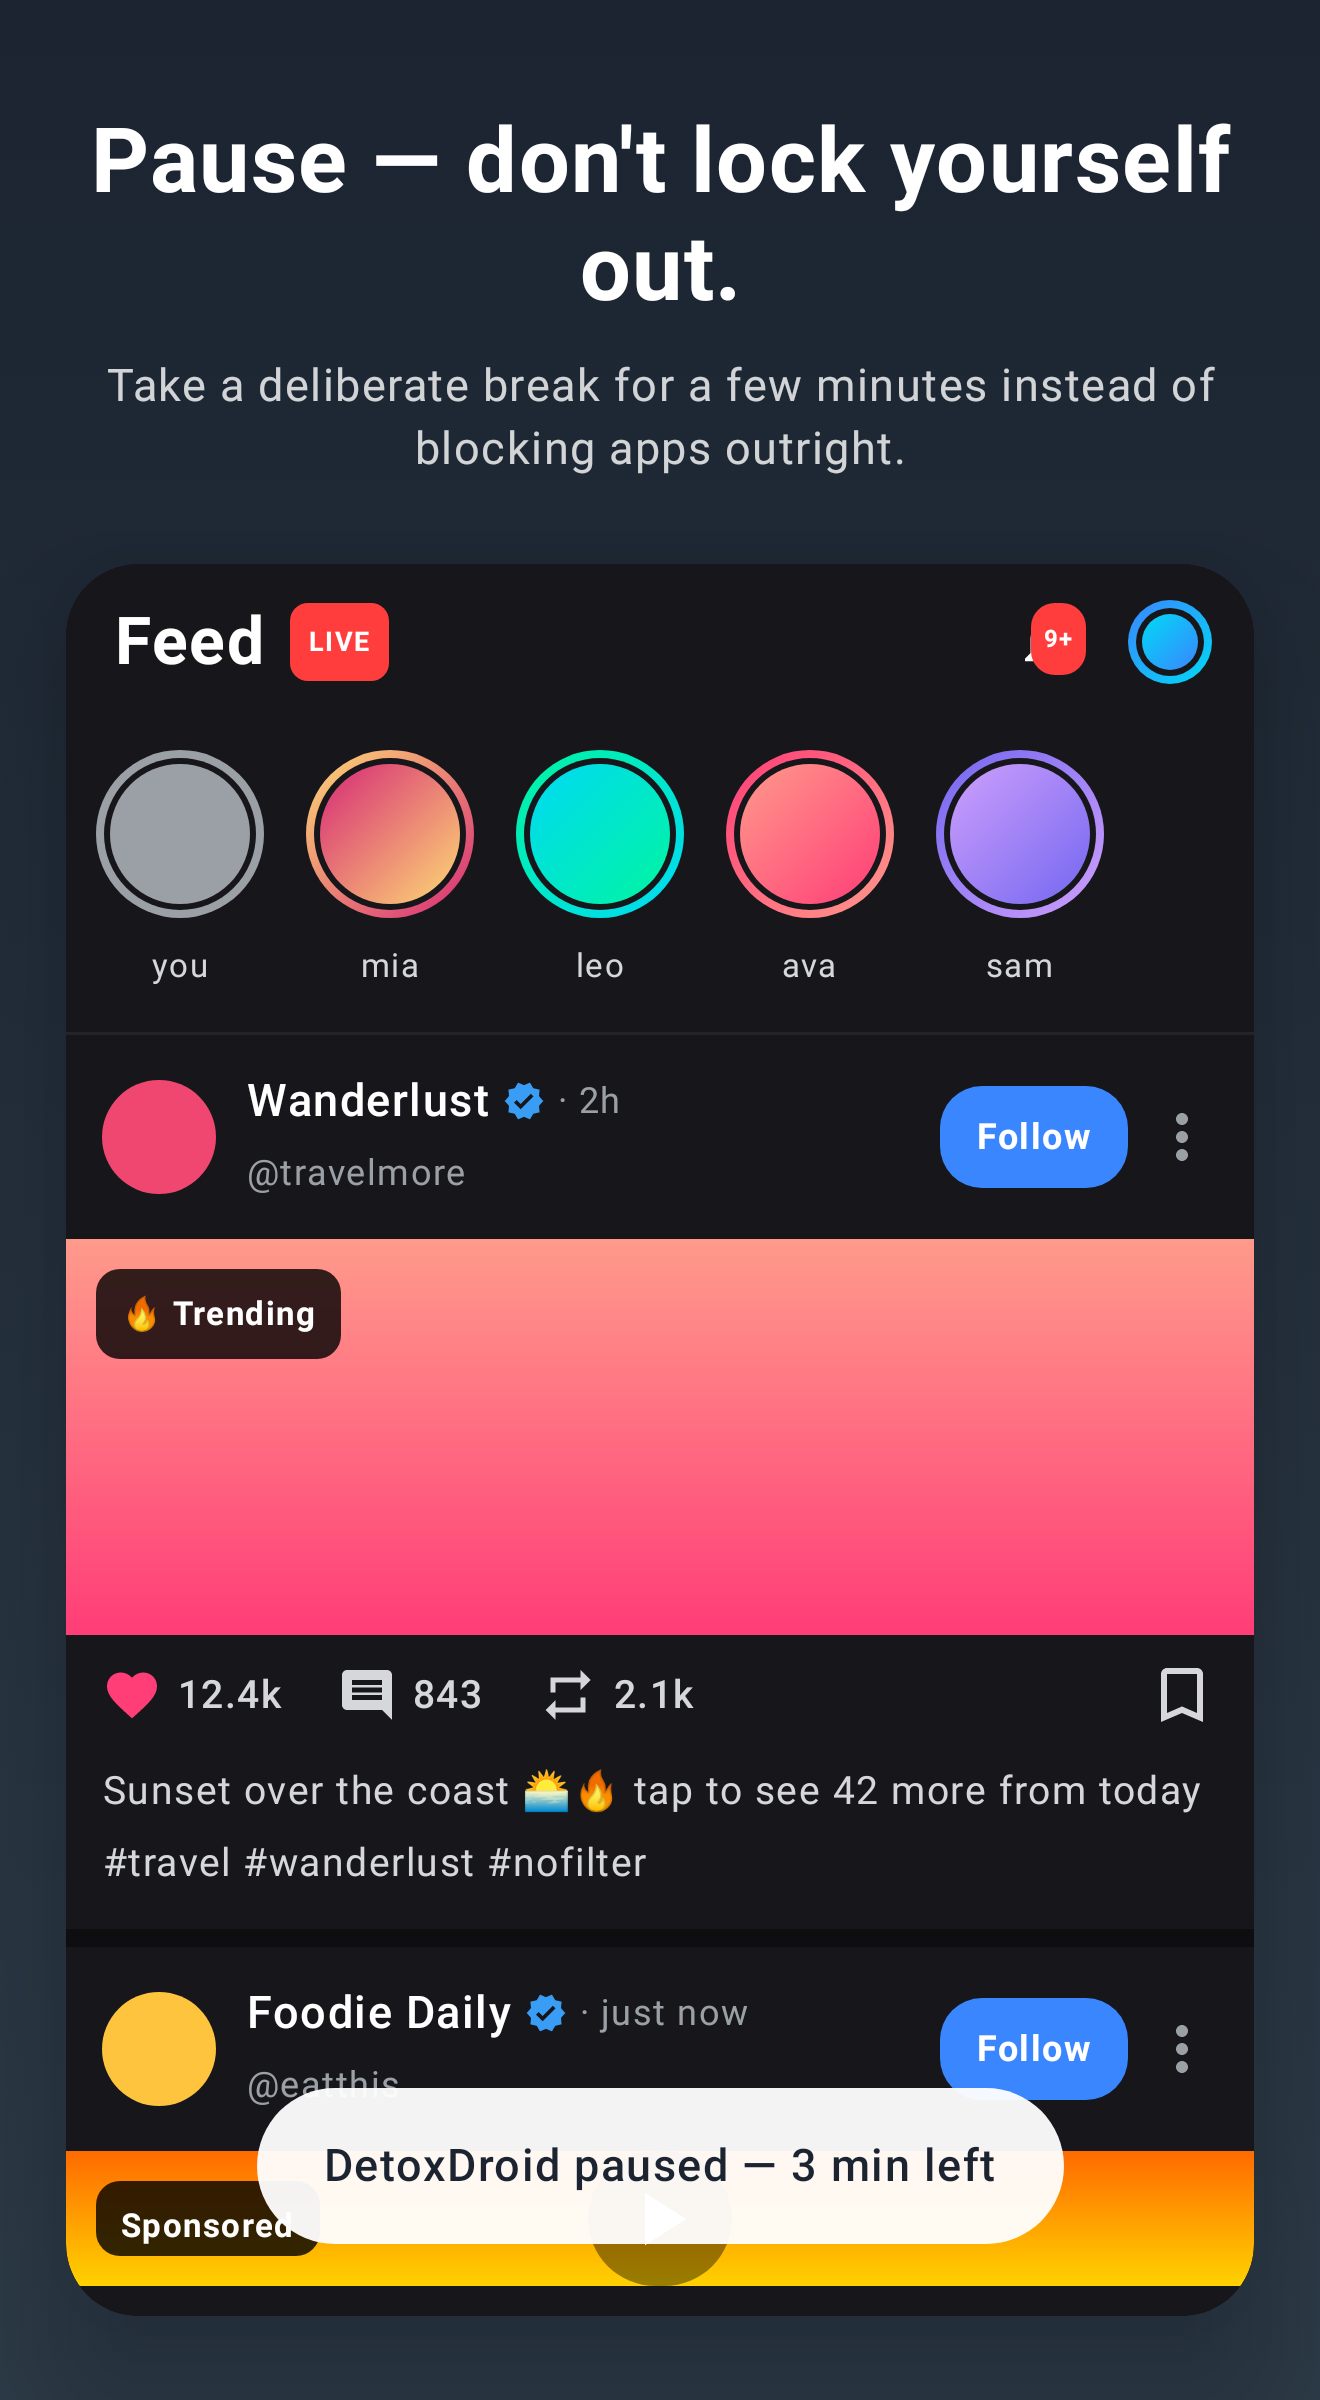
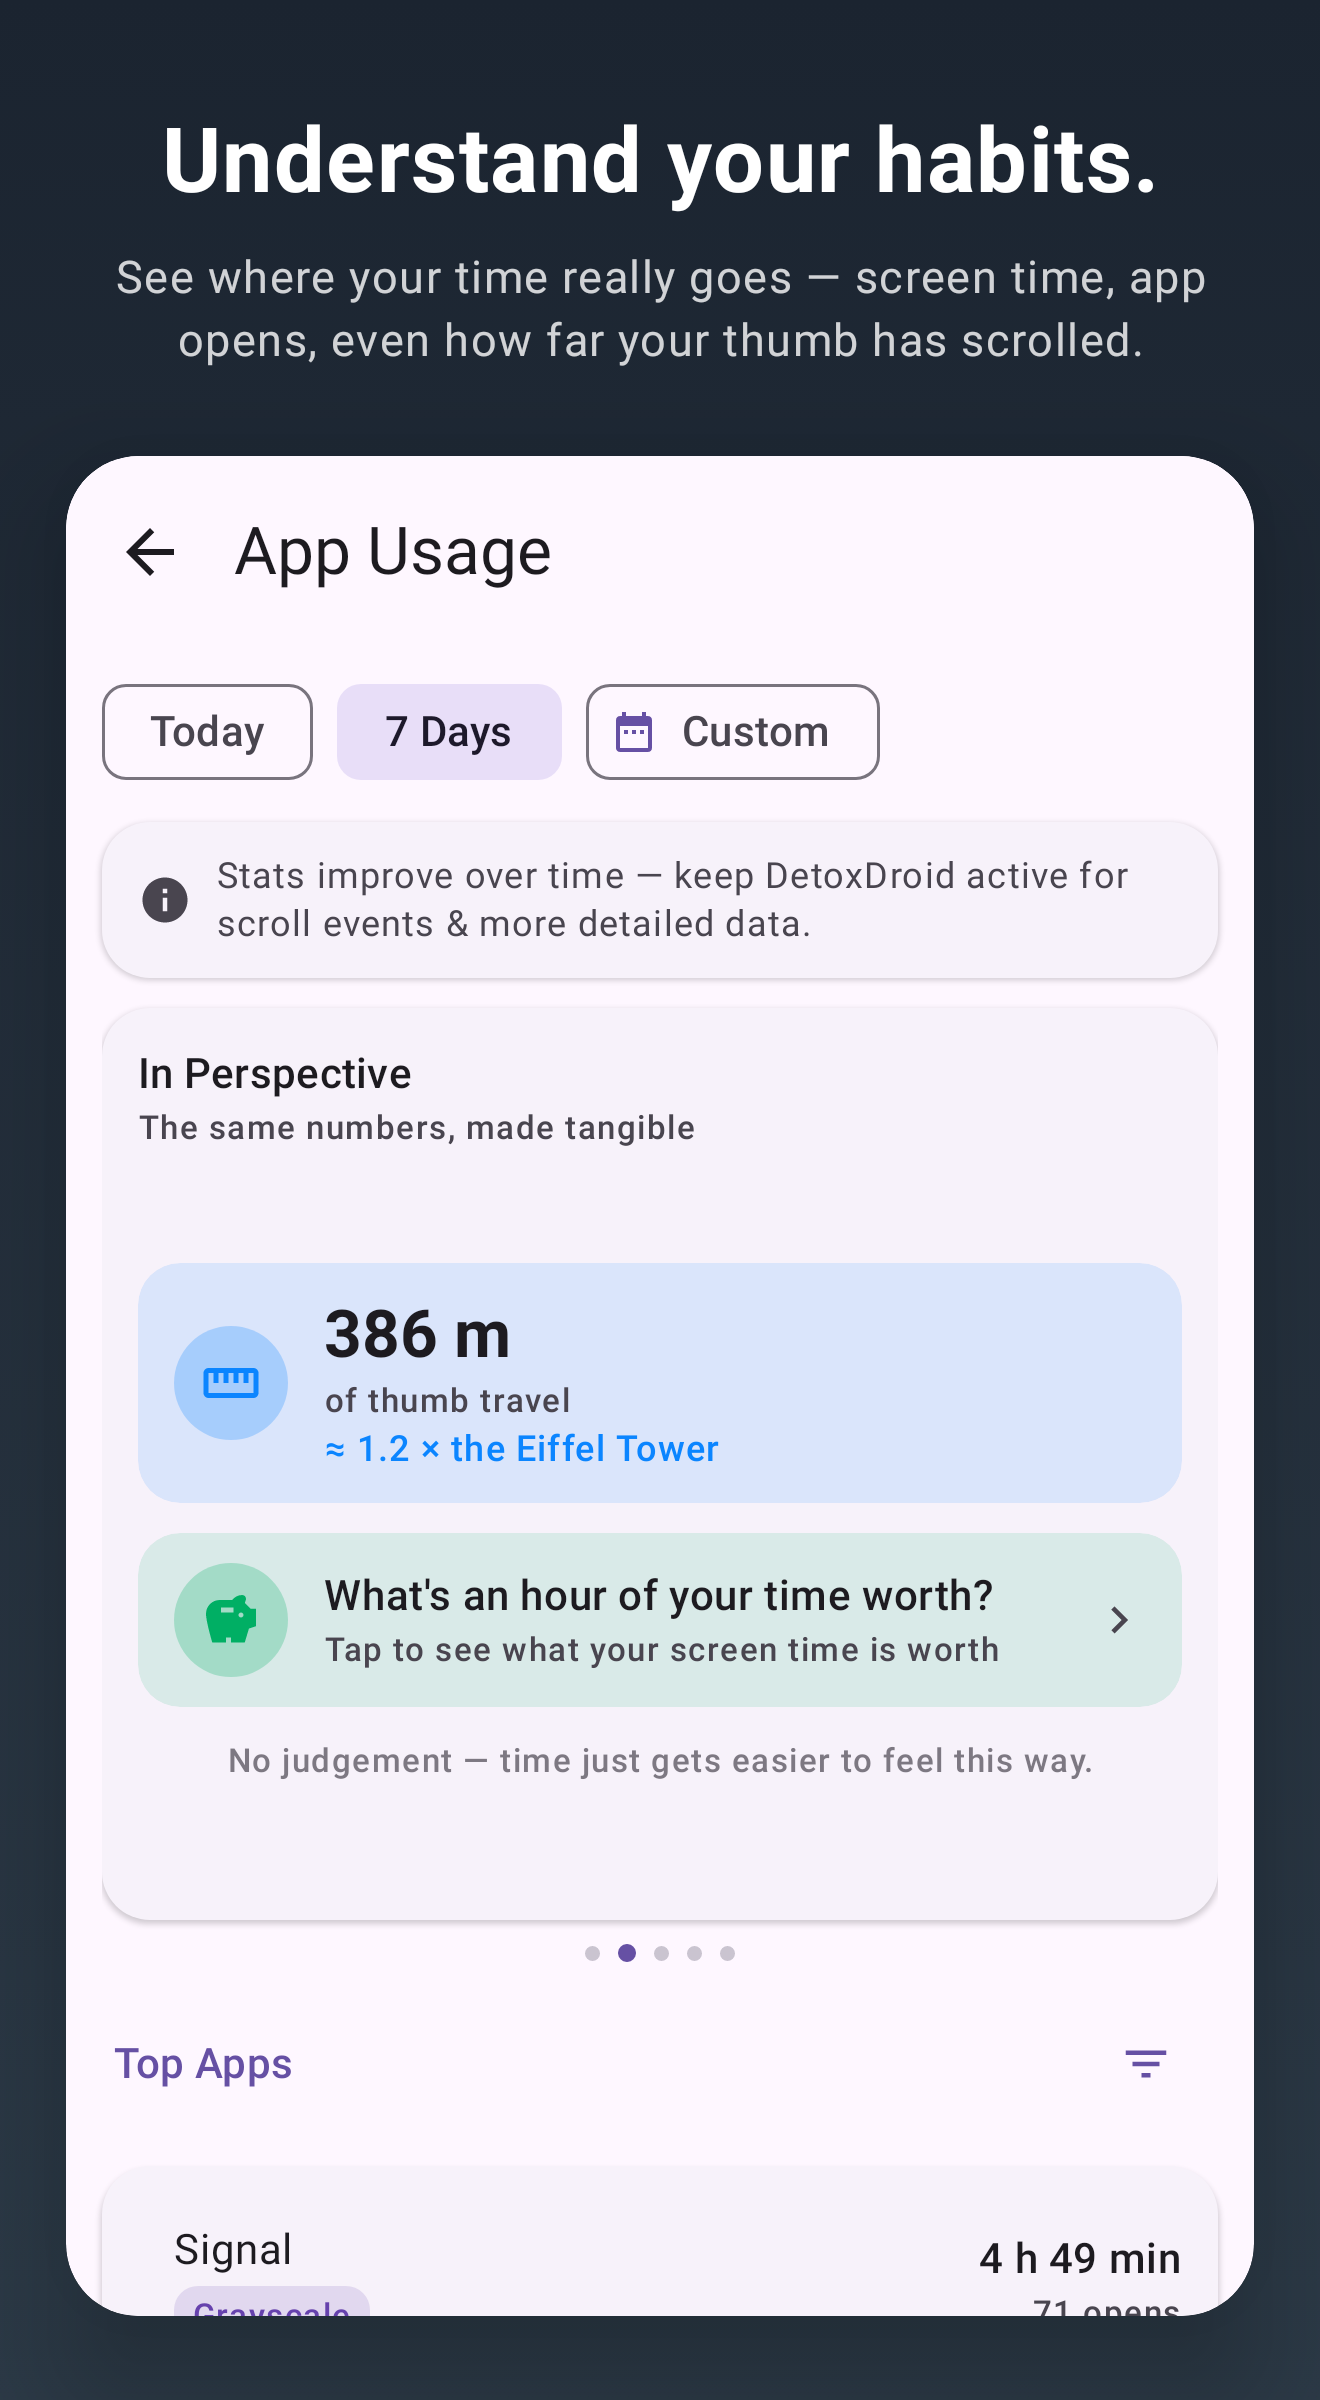
refactor: rework screenshots and update README.md accordingly

diff --git a/app/src/test/java/com/flx_apps/digitaldetox/screenshot/StoreScreenshotTest.kt b/app/src/test/java/com/flx_apps/digitaldetox/screenshot/StoreScreenshotTest.kt
@@ -5,14 +5,14 @@ import androidx.activity.compose.setContent
 import androidx.annotation.StringRes
 import androidx.compose.foundation.layout.Box
 import androidx.compose.foundation.layout.fillMaxSize
-import androidx.compose.foundation.layout.padding
 import androidx.compose.runtime.Composable
-import androidx.compose.ui.Alignment
 import androidx.compose.ui.Modifier
 import androidx.compose.ui.test.junit4.createAndroidComposeRule
+import androidx.compose.ui.test.onNodeWithTag
 import androidx.compose.ui.test.onNodeWithText
 import androidx.compose.ui.test.performClick
-import androidx.compose.ui.unit.dp
+import androidx.compose.ui.test.performTouchInput
+import androidx.compose.ui.test.swipeLeft
 import androidx.lifecycle.ViewModelProvider
 import com.flx_apps.digitaldetox.MainActivity
 import com.flx_apps.digitaldetox.R
@@ -22,6 +22,7 @@ import com.flx_apps.digitaldetox.ui.screens.feature.break_doom_scrolling.BreakDo
 import com.flx_apps.digitaldetox.ui.screens.nav_host.NavHostScreen
 import com.flx_apps.digitaldetox.ui.screens.nav_host.NavViewModel
 import com.flx_apps.digitaldetox.ui.screens.nav_host.NavigationRoutes
+import com.flx_apps.digitaldetox.ui.screens.usage_stats.TrendsCarouselTestTag
 import com.flx_apps.digitaldetox.ui.theme.DetoxDroidTheme
 import com.github.takahirom.roborazzi.captureRoboImage
 import dagger.hilt.android.testing.HiltAndroidRule
@@ -49,8 +50,8 @@ import javax.inject.Inject
  * Real app screens (home, usage-stats) are driven through the real [MainActivity]/[NavHostScreen]
  * — they cannot be instantiated standalone because `NavViewModel.navViewModel()` casts the local
  * activity to [MainActivity] and reimagined `hiltViewModel()` needs a nav-entry scope. The
- * grayscale / exceptions / doomscrolling / pause beats are static mock scenes (see [MockScenes]),
- * per product decision, since Roborazzi can only render DetoxDroid's own UI.
+ * grayscale / exceptions / doomscrolling / minimal-launcher beats are static mock scenes (see
+ * [MockScenes]), per product decision, since Roborazzi can only render DetoxDroid's own UI.
  *
  * Run with:
  *   ./gradlew :app:generateScreenshots
@@ -144,39 +145,33 @@ class StoreScreenshotTest {
         }
     }
 
-    // ── 5 · Pause, not lockout ───────────────────────────────────────────────
+    // ── 5 · Usage stats — In Perspective ─────────────────────────────────────
     @Test
-    fun screenshot_5_pause() = captureScene(
+    fun screenshot_5_usageStats() = captureApp(
         index = 5,
         titleRes = R.string.screenshot_5_title,
         subtitleRes = R.string.screenshot_5_subtitle,
-    ) {
-        // Pausing DetoxDroid disables every feature, so the feed is back in full colour — that's
-        // the whole point of a pause (a deliberate break, not a lockout).
-        Box(Modifier.fillMaxSize()) {
-            MockSocialFeed()
-            PauseToast(
-                text = "DetoxDroid paused — 3 min left",
-                modifier = Modifier
-                    .align(Alignment.BottomCenter)
-                    .padding(24.dp),
-            )
-        }
-    }
+        navigate = { navVm -> navVm.openRoute(NavigationRoutes.UsageStats) },
+        interact = {
+            // Switch to the 7-day timeframe (premium is unlocked in the seed) so the weekly history
+            // backed by the seeded Room data is shown instead of today's summary.
+            composeRule.onNodeWithText("7 Days").performClick()
+            settle()
+            // Advance the trends carousel to its "In Perspective" page — scroll distance reframed as
+            // physical thumb travel against a landmark, a far stronger visual than the raw summary.
+            // Swipe the carousel node itself, not the root: a root swipe lands at the screen's
+            // vertical centre (below the carousel) and scrolls nothing.
+            composeRule.onNodeWithTag(TrendsCarouselTestTag).performTouchInput { swipeLeft() }
+        },
+    )
 
-    // ── 6 · Usage stats (weekly charts) ──────────────────────────────────────
+    // ── 6 · Minimal launcher (text-only home screen) ─────────────────────────
     @Test
-    fun screenshot_6_usageStats() = captureApp(
+    fun screenshot_6_minimalLauncher() = captureScene(
         index = 6,
         titleRes = R.string.screenshot_6_title,
         subtitleRes = R.string.screenshot_6_subtitle,
-        navigate = { navVm -> navVm.openRoute(NavigationRoutes.UsageStats) },
-        interact = {
-            // Switch to the 7-day timeframe (premium is unlocked in the seed) so the weekly bar
-            // charts backed by the seeded Room history are shown instead of today's summary.
-            composeRule.onNodeWithText("7 Days").performClick()
-        },
-    )
+    ) { MockMinimalLauncher() }
 
     // ── Helpers ──────────────────────────────────────────────────────────────
 

diff --git a/app/src/test/java/com/flx_apps/digitaldetox/screenshot/MockScenes.kt b/app/src/test/java/com/flx_apps/digitaldetox/screenshot/MockScenes.kt
@@ -494,23 +494,52 @@ private fun EngagementStat(icon: androidx.compose.ui.graphics.vector.ImageVector
     }
 }
 
+// A calm, text-only home screen for the "minimal launcher" scene. Ordinary phone apps, no icons —
+// the opposite of the loud, colourful feed in the other scenes. First entry is highlighted as a
+// "favourite"; the rest recede so the whole screen reads as quiet.
+private val mockLauncherApps = listOf(
+    "Phone" to true,
+    "Messages" to true,
+    "Maps" to false,
+    "Camera" to false,
+    "Calendar" to false,
+    "Notes" to false,
+    "Settings" to false,
+)
+
 /**
- * A small "toast" reproducing DetoxDroid's pause confirmation ("DetoxDroid has been paused for N
- * minutes"), overlaid on a mock feed for the pause-not-lockout scene.
+ * A minimal, text-only launcher home screen (no external assets): a soft twilight wallpaper, the
+ * time, and a plain list of app names instead of a grid of colourful icons — DetoxDroid's Minimal
+ * Launcher widget. Deliberately calm and low-contrast so it reads as the antidote to the busy feed.
  */
 @Composable
-fun PauseToast(text: String, modifier: Modifier = Modifier) {
-    Box(
+fun MockMinimalLauncher(modifier: Modifier = Modifier) {
+    Column(
         modifier = modifier
-            .clip(RoundedCornerShape(28.dp))
-            .background(Color(0xF2FFFFFF))
-            .padding(horizontal = 22.dp, vertical = 14.dp),
+            .fillMaxSize()
+            .background(
+                Brush.verticalGradient(listOf(Color(0xFF20262F), Color(0xFF39434F)))
+            )
+            .padding(horizontal = 32.dp, vertical = 40.dp),
     ) {
+        Text("9:41", color = Color(0xFFF2F4F7), fontSize = 56.sp, fontWeight = FontWeight.Light)
         Text(
-            text = text,
-            color = Color(0xFF1B2430),
+            "Saturday, 18 July",
+            color = Color(0xFF9AA6B2),
             fontSize = 15.sp,
-            fontWeight = FontWeight.Medium,
+            fontWeight = FontWeight.Normal,
+            modifier = Modifier.padding(top = 2.dp),
         )
+        Spacer(Modifier.height(48.dp))
+        Column(verticalArrangement = Arrangement.spacedBy(24.dp)) {
+            mockLauncherApps.forEach { (name, favourite) ->
+                Text(
+                    text = name,
+                    color = if (favourite) Color(0xFFF2F4F7) else Color(0xFFB4BDC7),
+                    fontSize = 26.sp,
+                    fontWeight = if (favourite) FontWeight.SemiBold else FontWeight.Normal,
+                )
+            }
+        }
     }
 }

diff --git a/app/src/main/java/com/flx_apps/digitaldetox/ui/screens/usage_stats/UsageStatsCarousel.kt b/app/src/main/java/com/flx_apps/digitaldetox/ui/screens/usage_stats/UsageStatsCarousel.kt
@@ -22,6 +22,7 @@ import androidx.compose.ui.Alignment
 import androidx.compose.ui.Modifier
 import androidx.compose.ui.draw.clip
 import androidx.compose.ui.platform.LocalContext
+import androidx.compose.ui.platform.testTag
 import androidx.compose.ui.res.stringResource
 import androidx.compose.ui.unit.dp
 import com.flx_apps.digitaldetox.R
@@ -36,6 +37,12 @@ import java.time.LocalDate
 val CAROUSEL_CARD_HEIGHT = 280.dp
 val CARD_SHAPE = RoundedCornerShape(16.dp)
 val CARD_INNER_PADDING = 12.dp
+
+/**
+ * Test tag on the trends [HorizontalPager]. Lets the store-screenshot generator swipe the carousel
+ * to a specific page (e.g. "In Perspective") by targeting the pager itself rather than the root.
+ */
+const val TrendsCarouselTestTag = "trendsCarousel"
 
 private enum class TrendsPage(val titleRes: Int?) {
     SUMMARY(titleRes = null),
@@ -74,7 +81,9 @@ fun TrendsCarousel(
     Column(verticalArrangement = Arrangement.spacedBy(8.dp)) {
         HorizontalPager(
             state = pagerState,
-            modifier = Modifier.fillMaxWidth(),
+            modifier = Modifier
+                .fillMaxWidth()
+                .testTag(TrendsCarouselTestTag),
             pageSpacing = 8.dp,
         ) { pageIndex ->
             val page = pages[pageIndex]

diff --git a/app/src/test/java/com/flx_apps/digitaldetox/screenshot/ScreenshotSeed.kt b/app/src/test/java/com/flx_apps/digitaldetox/screenshot/ScreenshotSeed.kt
@@ -125,7 +125,7 @@ object ScreenshotSeed {
                             sessionCount = launches,
                             launchCount = launches,
                             scrollCount = scrolls,
-                            scrollDistancePx = scrolls * 900,
+                            scrollDistancePx = scrolls * 1700,
                             breakCount = if (index == 1) dayOffset % 3 else 0,
                             blockCount = 0,
                         )

diff --git a/README.md b/README.md
@@ -5,7 +5,7 @@
 
 ## Make digital detox your default
 
-<img src="/fastlane/metadata/android/en-US/images/phoneScreenshots/1.jpg" width="165" /><img src="/fastlane/metadata/android/en-US/images/phoneScreenshots/2.jpg" width="165" /><img src="/fastlane/metadata/android/en-US/images/phoneScreenshots/3.jpg" width="165" /><img src="/fastlane/metadata/android/en-US/images/phoneScreenshots/4.jpg" width="165" /><img src="/fastlane/metadata/android/en-US/images/phoneScreenshots/5.jpg" width="165" />
+<img src="/fastlane/metadata/android/en-US/images/phoneScreenshots/1.png" width="130" /><img src="/fastlane/metadata/android/en-US/images/phoneScreenshots/2.png" width="130" /><img src="/fastlane/metadata/android/en-US/images/phoneScreenshots/3.png" width="130" /><img src="/fastlane/metadata/android/en-US/images/phoneScreenshots/4.png" width="130" /><img src="/fastlane/metadata/android/en-US/images/phoneScreenshots/5.png" width="130" /><img src="/fastlane/metadata/android/en-US/images/phoneScreenshots/6.png" width="130" />
 
 ## What DetoxDroid does
 